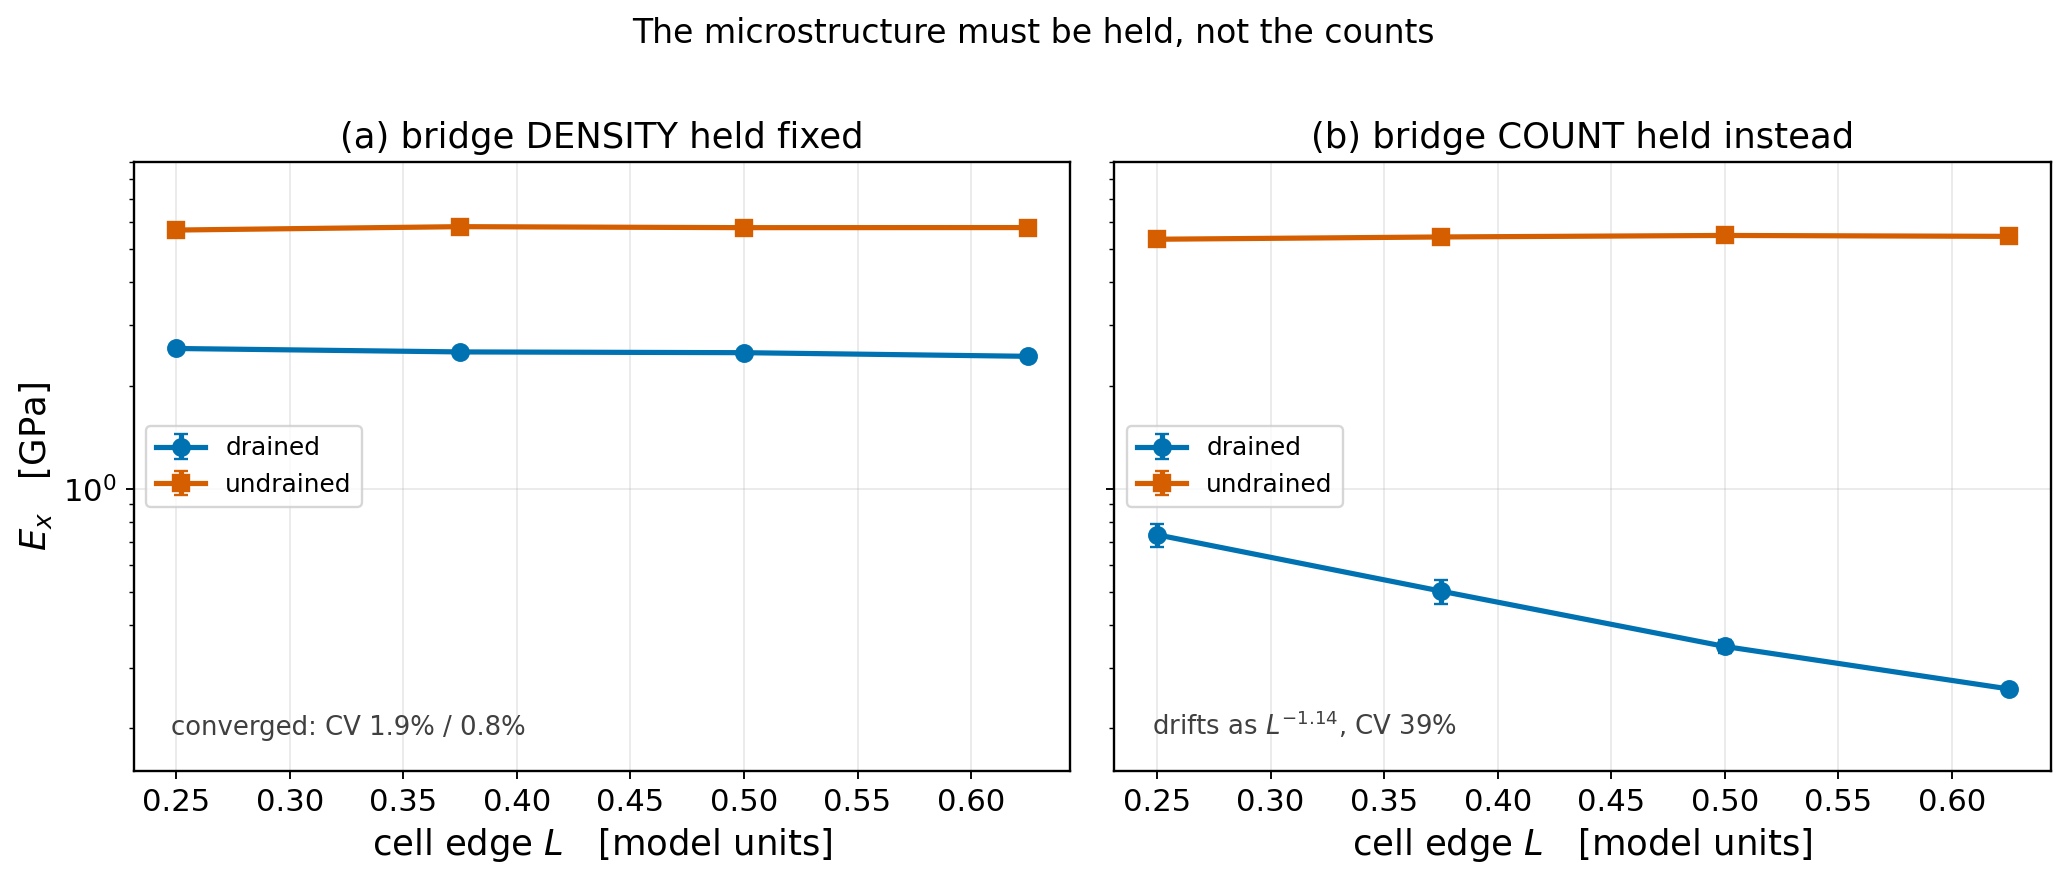
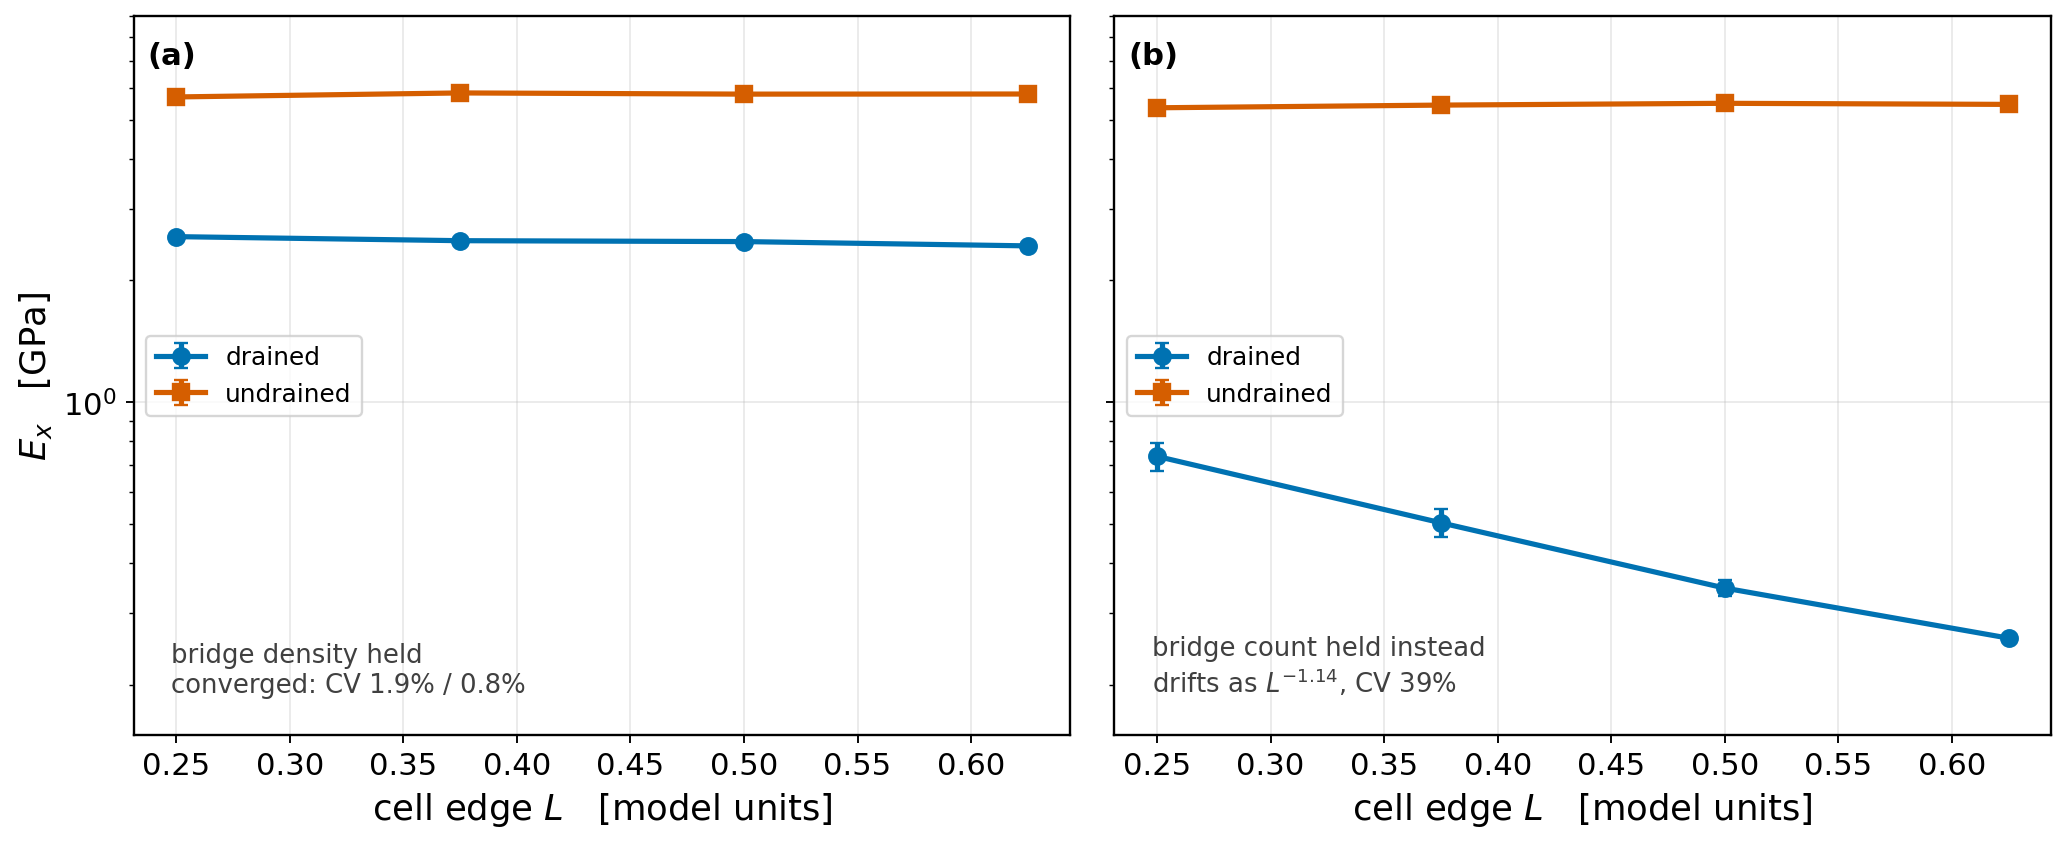
Build Fig 2, and remove in-figure titles from the whole set
Figure 2 shows the three morphologies as MESHED, read back from solved decks
rather than drawn from the geometry requested, so what appears is what was
solved. Top row the brine phase in three dimensions, bottom row a slice chosen
per morphology: a horizontal cut for pockets and channels, and for the layers a
cut in the plane of a layer, where the ice bridges appear as gaps and the
transverse load path is visible. The three are presented as the succession the
material passes through with depth, not as alternatives.

Titles removed from every paper figure. A journal figure carries its
description in the caption, and a title inside the axes duplicates it and
survives cropping badly. Panel identifiers stay, moved from set_title into a
bold corner label, which is the convention.

Two things the strip broke and that are now repaired: the RVE figure's panels
lost their letters when their titles went, and Figure 2's three-dimensional
panels lost theirs, since Axes3D needs text2D rather than text for a label in
axes coordinates. Both checked by regenerating and reading the output.

diff --git a/analysis/plot_fig2_morphologies.py b/analysis/plot_fig2_morphologies.py
@@ -1,0 +1,111 @@
+r"""Figure 2: the three inclusion morphologies, as meshed.
+
+Pockets, channels and layers are not alternatives; they are the succession the
+material passes through with depth. Cold ice holds isolated pockets. Once the
+brine percolates the channels appear. At the warm base the brine occupies
+planes between ice platelets and the ice left between them carries the load
+across those planes.
+
+Every panel is read back from a solved deck rather than drawn from the geometry
+that was requested, so what is shown is what was meshed: if the mesher lost an
+inclusion or a layer came out a different thickness, it appears here.
+
+Top row is the brine phase in three dimensions. Bottom row is a slice, chosen
+per morphology to show the thing that matters -- for pockets and channels a
+horizontal cut through the cell, for layers a cut in the plane of a layer,
+where the ice bridges appear as gaps and the transverse load path is visible.
+
+    python3 analysis/plot_fig2_morphologies.py <outdir>
+"""
+import os
+import sys
+
+import numpy as np
+
+sys.path.insert(0, os.path.dirname(os.path.abspath(__file__)))
+import figstyle as fs
+
+fs.apply()
+import matplotlib.pyplot as plt
+from mpl_toolkits.mplot3d.art3d import Poly3DCollection
+
+from plot_slab_mesh import load, tet_faces
+
+TMP = r'C:/Users/stirpeg2/.claude/jobs/06dae8ab/tmp'
+CASES = [
+    ('(a)', os.path.join(TMP, 'out_fig2', 'Job-FIG2pocket-utx.inp'),
+     'cold ice: isolated inclusions', 2, None),
+    ('(b)', os.path.join(TMP, 'out_fig2', 'Job-FIG2chan-utx.inp'),
+     'once the brine percolates', 2, None),
+    ('(c)',
+     os.path.join(TMP, 'out_bracket', 'Job-BRK_p150_und-utx.inp'),
+     'the warm base: brine in planes', 0, 'auto'),
+]
+VIEW = np.array([0.50, -0.72, 0.48])
+
+
+def panel_3d(ax, P, conn, L, title, sub):
+    surf = tet_faces(conn)
+    tris = P[surf]
+    n = np.cross(tris[:, 1] - tris[:, 0], tris[:, 2] - tris[:, 0])
+    tris = tris[np.einsum('ij,j->i', n, VIEW) > 0]
+    if len(tris) > 45000:
+        tris = tris[:: max(1, len(tris) // 45000)]
+    ax.add_collection3d(Poly3DCollection(tris, facecolor=fs.SKY,
+                                         edgecolor='none', alpha=0.95))
+    ax.set_xlim(0, L); ax.set_ylim(0, L); ax.set_zlim(0, L)
+    ax.set_box_aspect((1, 1, 1))
+    ax.set_xticks([]); ax.set_yticks([]); ax.set_zticks([])
+    ax.view_init(elev=18, azim=-58)
+    ax.text2D(0.02, 0.94, title, transform=ax.transAxes, fontsize=13,
+              fontweight='bold', va='top')
+
+
+def panel_slice(ax, P, conn, L, axis, at, xl, yl, note):
+    cen = P[conn].mean(axis=1)
+    sel = np.abs(cen[:, axis] - at) < 0.02 * L
+    other = [i for i in (0, 1, 2) if i != axis]
+    if sel.sum():
+        ax.scatter(cen[sel][:, other[0]], cen[sel][:, other[1]], s=4,
+                   color=fs.BLUE, alpha=0.55, linewidths=0)
+    ax.set_xlim(0, L); ax.set_ylim(0, L); ax.set_aspect('equal')
+    ax.set_xticks([]); ax.set_yticks([])
+    ax.set_xlabel(xl, fontsize=11); ax.set_ylabel(yl, fontsize=11)
+    ax.text(0.03, 0.03, note, transform=ax.transAxes, fontsize=10.5,
+            color='0.25')
+
+
+def main():
+    outdir = sys.argv[1] if len(sys.argv) > 1 else '.'
+    fig = plt.figure(figsize=(13.2, 8.4))
+    for i, (title, path, sub, axis, mode) in enumerate(CASES):
+        if not os.path.exists(path):
+            print('  missing %s' % path)
+            continue
+        P, conn = load(path)
+        L = float(np.max(P))
+        print('  %-24s %6d brine tets, L = %.3f' % (title, len(conn), L))
+
+        ax = fig.add_subplot(2, 3, i + 1, projection='3d')
+        panel_3d(ax, P, conn, L, title, sub)
+
+        ax2 = fig.add_subplot(2, 3, i + 4)
+        if mode == 'auto':
+            # cut in the plane of a layer: the densest brine plane along x
+            cen = P[conn].mean(axis=1)
+            h, e = np.histogram(cen[:, 0], bins=60)
+            at = 0.5 * (e[np.argmax(h)] + e[np.argmax(h) + 1])
+            panel_slice(ax2, P, conn, L, 0, at, '$y$', '$z$',
+                        'in the layer plane:\nbridges are the gaps')
+        else:
+            panel_slice(ax2, P, conn, L, axis, 0.5 * L, '$x$', '$y$',
+                        'horizontal cut at $z=L/2$')
+
+    fig.tight_layout(rect=(0, 0, 1, 0.96))
+    p = os.path.join(outdir, 'fig2_morphologies.png')
+    fig.savefig(p, dpi=170)
+    print('wrote %s' % p)
+
+
+if __name__ == '__main__':
+    main()

diff --git a/analysis/make_ice_rve_figs.py b/analysis/make_ice_rve_figs.py
@@ -70,10 +70,11 @@ def fig_rve(outdir):
         print('  fig3: missing data, skipped')
         return
     fig, ax = plt.subplots(1, 2, figsize=(12.4, 5.2), sharey=True)
-    for a, g, title, note in (
-            (ax[0], dens, '(a) bridge DENSITY held fixed',
-             'converged: CV 1.9% / 0.8%'),
-            (ax[1], spac, '(b) bridge COUNT held instead',
+    for a, g, letter, note in (
+            (ax[0], dens, 'a',
+             'bridge density held\nconverged: CV 1.9% / 0.8%'),
+            (ax[1], spac, 'b',
+             'bridge count held instead' '\n'
              r'drifts as $L^{-1.14}$, CV 39%')):
         for state, c, mk, lab in (('drn', fs.BLUE, 'o', 'drained'),
                                   ('und', fs.VERM, 's', 'undrained')):
@@ -81,14 +82,13 @@ def fig_rve(outdir):
             L, m, s = agg(sub, lambda k: int(k[0]) / 1000.0)
             a.errorbar(L, m, yerr=s, marker=mk, color=c, capsize=3, label=lab)
         a.set_xlabel(r'cell edge $L$   [model units]')
-        a.set_title(title)
         a.text(0.04, 0.06, note, transform=a.transAxes, fontsize=11,
                color='0.25')
+        a.text(0.015, 0.965, '(%s)' % letter, transform=a.transAxes,
+               fontsize=13, fontweight='bold', va='top')
         a.set_yscale('log'); a.set_ylim(0.15, 9)
         a.legend(fontsize=10.5, loc='center left')
     ax[0].set_ylabel(r'$E_x$   [GPa]')
-    fig.suptitle('The microstructure must be held, not the counts', y=1.0,
-                 fontsize=14)
     fig.tight_layout()
     p = os.path.join(outdir, 'fig3_rve.png')
     fig.savefig(p, dpi=170); print('  wrote %s' % p)
@@ -115,7 +115,6 @@ def fig_elimination(outdir):
     ax.set_yticks(y); ax.set_yticklabels([r[0] for r in rows], fontsize=10.5)
     ax.set_xscale('log'); ax.set_xlim(0.9, 9)
     ax.set_xlabel('factor by which the transverse modulus changes')
-    ax.set_title('No parametric explanation reaches the discrepancy')
     ax.grid(axis='y', alpha=0)
     fig.tight_layout()
     p = os.path.join(outdir, 'fig5_elimination.png')
@@ -140,7 +139,8 @@ def fig_confinement(outdir):
     a.set_xscale('log'); a.set_yscale('log'); a.set_ylim(0.4, 14)
     a.set_xlabel(r"fill bulk modulus $K$   [GPa]")
     a.set_ylabel(r'$E$   [GPa]')
-    a.set_title('(a) a layered cell, at fixed geometry')
+    a.text(0.015, 0.965, '(a)', transform=a.transAxes,
+            fontsize=13, fontweight='bold', va='top')
     a.legend(fontsize=10.5, loc='lower right')
 
     b = ax[1]
@@ -151,10 +151,9 @@ def fig_confinement(outdir):
         b.text(i, v * 1.04, r'$\times$%.2f' % v, ha='center', fontsize=12)
     b.set_yscale('log'); b.set_ylim(0.9, 12)
     b.set_ylabel('undrained / drained')
-    b.set_title('(b) the same release, two morphologies')
+    b.text(0.015, 0.965, '(b)', transform=b.transAxes,
+            fontsize=13, fontweight='bold', va='top')
     b.grid(axis='x', alpha=0)
-    fig.suptitle('A confined layer resists at its bulk modulus; a pocket does not',
-                 y=1.0, fontsize=13.5)
     fig.tight_layout()
     p = os.path.join(outdir, 'fig6_confinement.png')
     fig.savefig(p, dpi=170); print('  wrote %s' % p)
@@ -186,9 +185,6 @@ def fig_constriction(outdir):
     ax.set_xlabel('bridges per layer, at fixed total bridge area')
     ax.set_ylabel(r'$E_x$   [GPa]')
     ax.legend(fontsize=10.5, loc='center left')
-    ax.set_title('Constriction: the transverse path is contact-limited\n'
-                 'flat would mean area-limited; falling, bending-limited',
-                 fontsize=13)
     fig.tight_layout()
     p = os.path.join(outdir, 'fig7_constriction.png')
     fig.savefig(p, dpi=170); print('  wrote %s' % p)
@@ -222,8 +218,6 @@ def fig_spacing(outdir):
     ax.set_xscale('log'); ax.set_yscale('log')
     ax.set_xlabel(r'lamellar spacing $a_0$   [mm]')
     ax.set_ylabel(r'$E_x$   [GPa]')
-    ax.set_title('Spacing sets the scale, and the physical value is finer '
-                 'than we solved')
     ax.legend(fontsize=10.5, loc='upper left')
     fig.tight_layout()
     p = os.path.join(outdir, 'fig8_spacing.png')

diff --git a/analysis/plot_ez_closure.py b/analysis/plot_ez_closure.py
@@ -49,7 +49,8 @@ def panel_ephi(ax):
     ax.set_yscale('log'); ax.set_ylim(0.05, 12); ax.set_xlim(0, 0.24)
     ax.set_xlabel(r'brine volume fraction $\phi$')
     ax.set_ylabel(r'$E$  [GPa]')
-    ax.set_title('(a) the closure against measured laws')
+    ax.text(0.015, 0.965, '(a)', transform=ax.transAxes,
+            fontsize=13, fontweight='bold', va='top')
     ax.legend(fontsize=9, loc='lower left')
 
 
@@ -71,7 +72,8 @@ def panel_column(ax):
     fs.depth_axis(ax)
     ax.set_xscale('log'); ax.set_xlim(0.15, 14)
     ax.set_xlabel(r"Young's modulus  [GPa]")
-    ax.set_title(r'(b) $E(z)$: 1 m column, $-20\,^\circ$C, $S=6$ ppt')
+    ax.text(0.015, 0.965, '(b)', transform=ax.transAxes,
+            fontsize=13, fontweight='bold', va='top')
     ax.legend(fontsize=9.5, loc='lower left')
 
 
@@ -103,7 +105,8 @@ def panel_cases(ax):
                        fontsize=10)
     ax.set_xlim(-0.6, 4.3)
     ax.set_ylabel(r'beam rigidity  [GPa]'); ax.set_ylim(0, 2.4)
-    ax.set_title('(c) Gogolaze level (left) and Marchenko grading (right)')
+    ax.text(0.015, 0.965, '(c)', transform=ax.transAxes,
+            fontsize=13, fontweight='bold', va='top')
     ax.legend(fontsize=9, loc='upper left')
     ax.grid(axis='x', alpha=0)
 
@@ -134,7 +137,8 @@ def panel_sensitivity(ax):
     ax.set_yticklabels([r[0] for r in rows], fontsize=9.5)
     ax.set_xscale('log'); ax.set_xlim(0.2, 6)
     ax.set_xlabel(r'$E$ at $\phi=%.2f$  [GPa]' % phi_ref)
-    ax.set_title('(d) what each ingredient is worth')
+    ax.text(0.015, 0.965, '(d)', transform=ax.transAxes,
+            fontsize=13, fontweight='bold', va='top')
     ax.grid(axis='y', alpha=0)
 
 

diff --git a/analysis/plot_match_ez.py b/analysis/plot_match_ez.py
@@ -62,7 +62,8 @@ def panel_marchenko(ax, z):
     fs.depth_axis(ax)
     ax.set_xlim(0.8, 11)
     ax.set_xlabel("Young's modulus [GPa]")
-    ax.set_title('(a) Marchenko: shape matches, level is his intercept')
+    ax.text(0.015, 0.965, '(a)', transform=ax.transAxes,
+            fontsize=13, fontweight='bold', va='top')
     ax.legend(loc='lower left', fontsize=9.5)
     return n
 
@@ -93,9 +94,8 @@ def panel_gogolaze(ax, z):
     ax.set_yscale('log'); ax.set_ylim(0.6, 14)
     ax.set_xlabel('bridge exponent $n$ in $E\\propto b^{\\,n}$')
     ax.set_ylabel(r'beam rigidity $12D/H^3$ [GPa]')
-    ax.set_title('(b) Gogolaze: required exponent vs what theory allows')
-
-
+    ax.text(0.015, 0.965, '(b)', transform=ax.transAxes,
+            fontsize=13, fontweight='bold', va='top')
 def panel_kujala(ax, z):
     Et, Eb = K_TOP.mean(), K_BOT.mean()
     tgt = Et + (Eb - Et) * z
@@ -116,7 +116,8 @@ def panel_kujala(ax, z):
     fs.depth_axis(ax)
     ax.set_xlim(0, 0.55)
     ax.set_xlabel(r'brine volume fraction $\phi$')
-    ax.set_title('(c) Kujala: the porosity his beams imply')
+    ax.text(0.015, 0.965, '(c)', transform=ax.transAxes,
+            fontsize=13, fontweight='bold', va='top')
     ax.legend(loc='lower right', fontsize=9.5)
 
 
